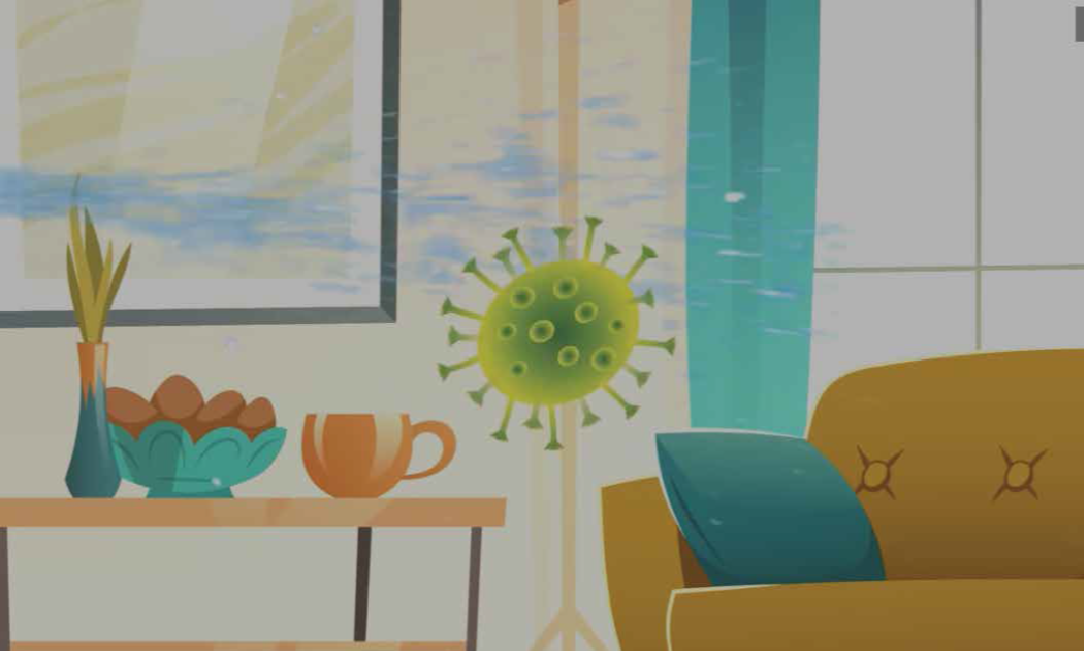
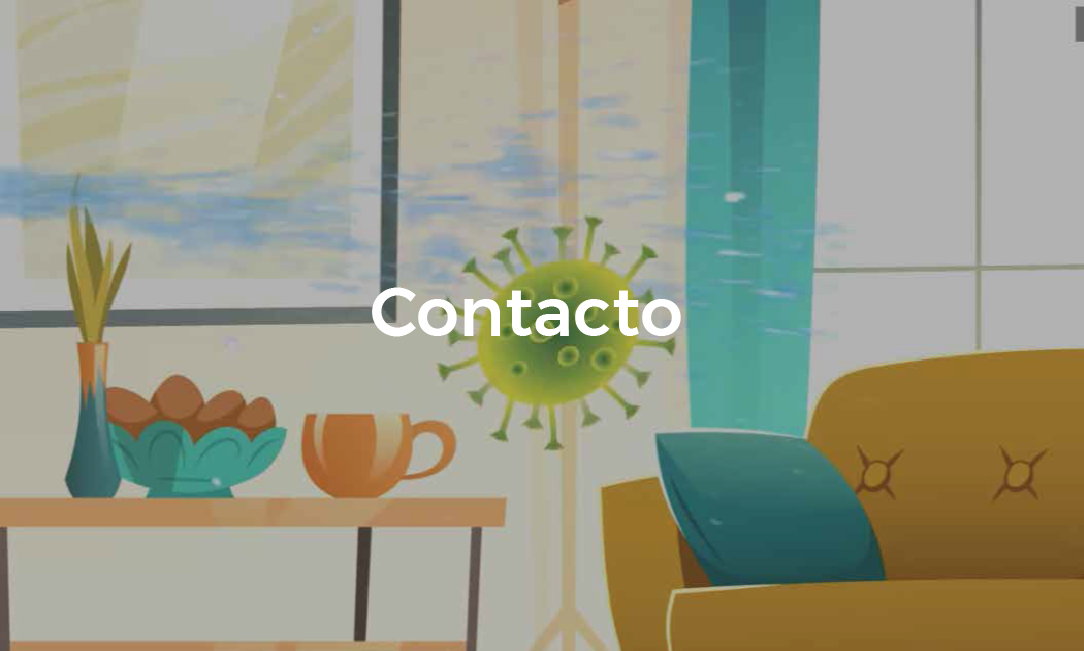
Agregado tipografia, google maps, solo queda pendiente ubicaciones de tiendas

Changed region(s): [[0.3349, 0.4301, 0.6393, 0.5223]]

diff --git a/index.html b/index.html
@@ -87,6 +87,8 @@
             <div class="navigation-links" id="link-pventa"><a href="#mapa">Puntos de Venta</a></div>
             <br>
             <div class="navigation-links" id="link-contacto"><a href="#contacto">Contacto</a></div>
+            <br>
+            <div class="navigation-links" id="ficha-tecnica-descarga"><a href="./resources/ficha_tecnica_virus.pdf" target="_blank">Ficha Tecnica</a></div>
         </div>
 
         <div class="row" id="home">
@@ -186,7 +188,7 @@
                     </div>
                 </div>
 
-                <a class="btn-enviar" href="#">Agregar</a>
+                <a class="btn-enviar">Comprar</a>
 
                 <div class="container" style="margin-top: 20px;">
                     <p>Servicio a domicilio! &nbsp;&nbsp;&nbsp;&nbsp; Ver Pruebas de Laboratorio</p>
@@ -222,7 +224,10 @@
         <div id="mapa">
             <div class="row">
                 <div class="col-md-auto">
-                    <img src="./resources/mapa.png" alt="" id="mapa-img">
+                    <div id="map">
+
+                    </div>
+                    <!-- <img src="./resources/mapa.png" alt="" id="mapa-img"> -->
                     <!-- <div style="margin-left: 10px;"> -->
                 </div>
                 <div class="col-md-2 col-12">
@@ -252,11 +257,11 @@
 
             <div class="row justify-content-start">
                 
-                <div class="col-12">
+                <div class="col-12 col-md-auto">
                     <img src="./resources/estadio.png" alt="" width="200" style="margin-right: 20px;">
                 </div>
                 
-                <div class="col-12">
+                <div class="col-12 col-md-auto">
                     <span style="font-size: 15px;">Guadalupe</span>
                     <p style="font-size: 25px;">Estadio BBVA</p>
                         <img src="./resources/PICT-DIRECC.png" alt="">
@@ -285,13 +290,13 @@
                         
                         <form >
                             <div class="form-group" style="text-align: left;">
-                                <label for="nombreCompleto">Nombre Completo</label>
+                                <label for="nombreCompleto">Nombre Completo*</label>
                                 <input type="email" class="form-control" id="nombreCompleto">
                             </div>
                             
                             <div class="form-row" style="text-align: left;">
                                 <div class="form-group col-md-4">
-                                    <label for="correoElectronico">Correo Electrónico</label>
+                                    <label for="correoElectronico">Correo Electrónico*</label>
                                     <input type="email" class="form-control" id="correoElectronico" required>
                                 </div>
         
@@ -322,7 +327,7 @@
         </div>
 
         <div id="promocion">
-            <img src="./resources/anuncio.jpg" alt="" id="img-anuncio">
+            <img src="./resources/anuncio.png" alt="" id="img-anuncio">
             <div class="container animated" style="text-align: left; width: 60%;" id="promocion-promo">
                 <br>
                 <h2>Promoción mes de Mayo</h2>
@@ -348,4 +353,7 @@
     
 </body>
 <script src="./js/index.js"></script>
+<script src="./js/map_markers.js"></script>
+<script async defer src="https://maps.googleapis.com/maps/api/js?key=AIzaSyDquSOpamVdgJUkg8_NceATAmHKl1A_oqI&callback=initMap"></script>
+
 </html>

diff --git a/css/style.css b/css/style.css
@@ -1,5 +1,24 @@
+
+@font-face {
+    font-family: Montserrat;
+    src: url("../fonts/Montserrat-Light.ttf");
+}
+
+@font-face {
+    font-family: Montserrat;
+    src: url("../fonts/Montserrat-Bold.ttf");
+    font-weight: bolder;
+}
+
+@font-face {
+    font-family: Montserrat;
+    src: url("../fonts/Montserrat-ExtraBold.ttf");
+    font-weight: bold;
+}
+
+
 *{
-    font-family: "Montserrat";
+    font-family: Montserrat;
 }
 body{
     margin: 0;
@@ -17,8 +36,9 @@ header{
 }
 
 @media only screen and (max-width: 748px) {
-        #mapa-img{
+        #map{
             width: 60%;
+            height: 300px;
         }
         #video-youtube-playing{
             width: 420px;
@@ -75,6 +95,10 @@ header{
     font-weight: 900;
 }
 
+.visited > a :hover{
+    text-decoration: none !important;
+}
+
 .navigation-links{
     -webkit-transform-origin: 0 0;
     -moz-transform-origin: 0 0;
@@ -105,6 +129,15 @@ header{
 
 #link-pventa{
     height: 17vh;
+}
+
+#link-contacto{
+    height: 10vh;
+}
+
+#ficha-tecnica-descarga :hover{
+    cursor: pointer;
+    text-decoration-line: underline;
 }
 
 #ficha-tecnica-img{
@@ -176,6 +209,11 @@ header{
 
 #mapa{
     margin-left: 15%;
+}
+
+#map{
+    width: 500px;
+    height: 500px;
 }
 
 #contacto{
@@ -275,7 +313,7 @@ header{
 
 a:link, a:visited {
     text-decoration:none;
-    
+
 }
 
 .btn-enviar:hover{
@@ -293,7 +331,7 @@ footer{
     bottom: 0;
     position: fixed;
     width: 100%;
-    opacity: 50%;
+    opacity: 80%;
 }
 .py-3>p{
     opacity: 200%;

diff --git a/js/map_markers.js b/js/map_markers.js
@@ -1,0 +1,16 @@
+var marker_color = "http://maps.google.com/mapfiles/ms/icons/blue-dot.png";
+
+function initMap() {
+    var latlng = {lat: 25.668191, lng: -100.2466512};
+    var map = new google.maps.Map(document.getElementById('map'), {
+        zoom: 13,
+        center: latlng
+    });
+
+    var marker = new google.maps.Marker({
+        position: latlng,
+        map: map,
+        icon: marker_color,
+        title: "Estadio BBVA"
+    });
+}
